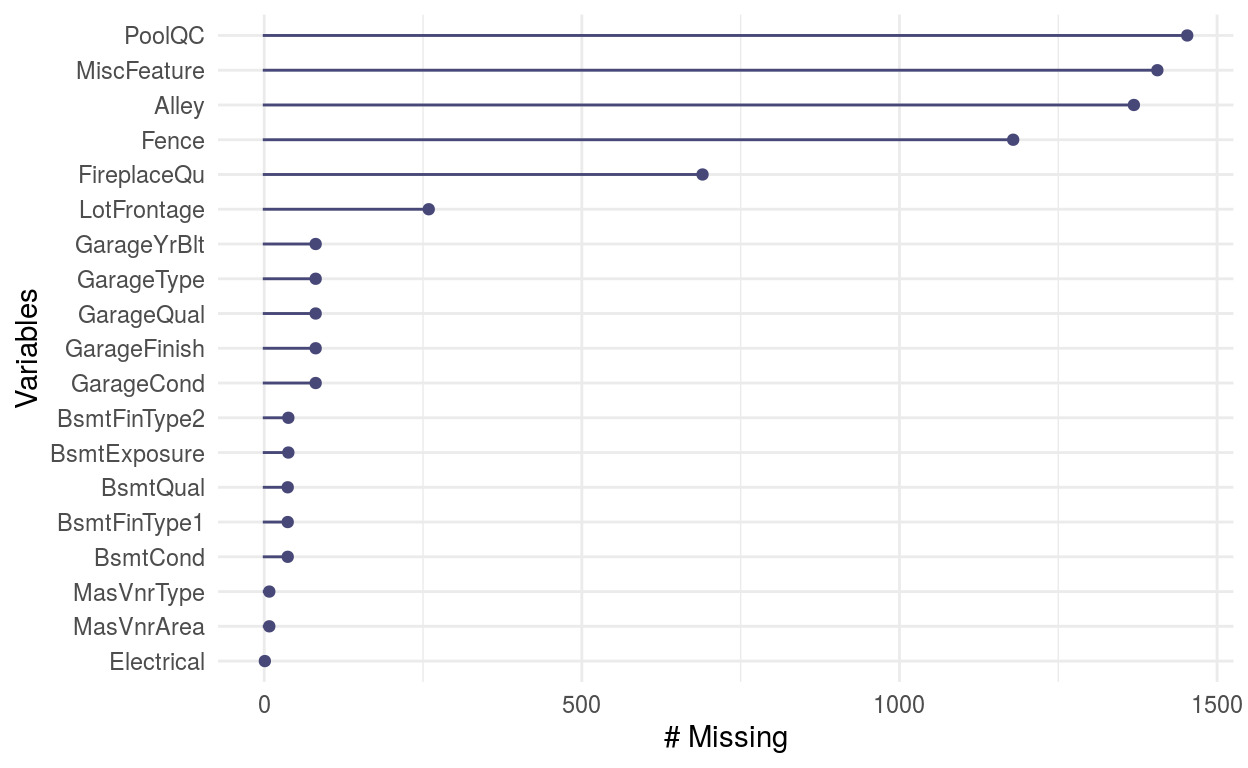
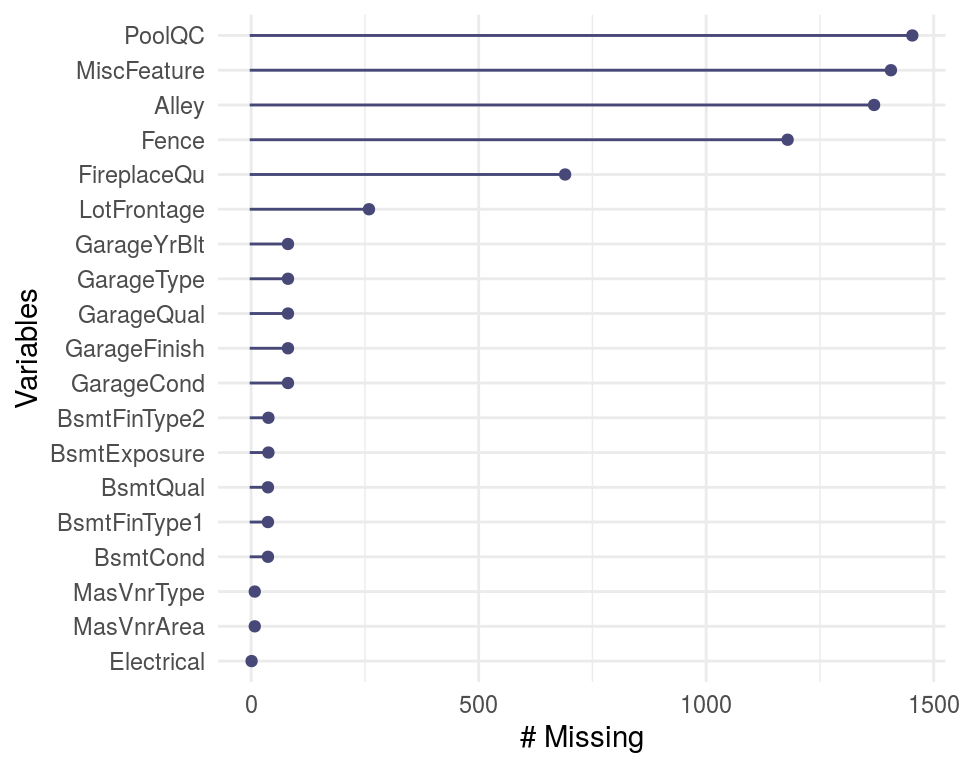
목차 만들기

diff --git a/docs/posts/2021-03-25-hw4/index.html b/docs/posts/2021-03-25-hw4/index.html
@@ -50,39 +50,38 @@ pre.numberSource code > span > a:first-child::before
   }
 pre.numberSource { margin-left: 3em; border-left: 1px solid #aaaaaa;  padding-left: 4px; }
 div.sourceCode
-  {   }
+  {  background-color: #f8f8f8; }
 @media screen {
 pre > code.sourceCode > span > a:first-child::before { text-decoration: underline; }
 }
-code span.al { color: #ad0000; } /* Alert */
-code span.an { color: #5e5e5e; } /* Annotation */
-code span.at { color: #20794d; } /* Attribute */
-code span.bn { color: #ad0000; } /* BaseN */
-code span.bu { } /* BuiltIn */
-code span.cf { color: #007ba5; } /* ControlFlow */
-code span.ch { color: #20794d; } /* Char */
-code span.cn { color: #8f5902; } /* Constant */
-code span.co { color: #5e5e5e; } /* Comment */
-code span.cv { color: #5e5e5e; font-style: italic; } /* CommentVar */
-code span.do { color: #5e5e5e; font-style: italic; } /* Documentation */
-code span.dt { color: #ad0000; } /* DataType */
-code span.dv { color: #ad0000; } /* DecVal */
-code span.er { color: #ad0000; } /* Error */
+code span.al { color: #ef2929; } /* Alert */
+code span.an { color: #8f5902; font-weight: bold; font-style: italic; } /* Annotation */
+code span.at { color: #c4a000; } /* Attribute */
+code span.bn { color: #0000cf; } /* BaseN */
+code span.cf { color: #204a87; font-weight: bold; } /* ControlFlow */
+code span.ch { color: #4e9a06; } /* Char */
+code span.cn { color: #000000; } /* Constant */
+code span.co { color: #8f5902; font-style: italic; } /* Comment */
+code span.cv { color: #8f5902; font-weight: bold; font-style: italic; } /* CommentVar */
+code span.do { color: #8f5902; font-weight: bold; font-style: italic; } /* Documentation */
+code span.dt { color: #204a87; } /* DataType */
+code span.dv { color: #0000cf; } /* DecVal */
+code span.er { color: #a40000; font-weight: bold; } /* Error */
 code span.ex { } /* Extension */
-code span.fl { color: #ad0000; } /* Float */
-code span.fu { color: #4758ab; } /* Function */
+code span.fl { color: #0000cf; } /* Float */
+code span.fu { color: #000000; } /* Function */
 code span.im { } /* Import */
-code span.in { color: #5e5e5e; } /* Information */
-code span.kw { color: #007ba5; } /* Keyword */
-code span.op { color: #5e5e5e; } /* Operator */
-code span.ot { color: #007ba5; } /* Other */
-code span.pp { color: #ad0000; } /* Preprocessor */
-code span.sc { color: #20794d; } /* SpecialChar */
-code span.ss { color: #20794d; } /* SpecialString */
-code span.st { color: #20794d; } /* String */
-code span.va { color: #111111; } /* Variable */
-code span.vs { color: #20794d; } /* VerbatimString */
-code span.wa { color: #5e5e5e; font-style: italic; } /* Warning */
+code span.in { color: #8f5902; font-weight: bold; font-style: italic; } /* Information */
+code span.kw { color: #204a87; font-weight: bold; } /* Keyword */
+code span.op { color: #ce5c00; font-weight: bold; } /* Operator */
+code span.ot { color: #8f5902; } /* Other */
+code span.pp { color: #8f5902; font-style: italic; } /* Preprocessor */
+code span.sc { color: #000000; } /* SpecialChar */
+code span.ss { color: #4e9a06; } /* SpecialString */
+code span.st { color: #4e9a06; } /* String */
+code span.va { color: #000000; } /* Variable */
+code span.vs { color: #4e9a06; } /* VerbatimString */
+code span.wa { color: #8f5902; font-weight: bold; font-style: italic; } /* Warning */
 </style>
 
   <!--radix_placeholder_meta_tags-->
@@ -103,7 +102,7 @@ code span.wa { color: #5e5e5e; font-style: italic; } /* Warning */
 <meta property="og:description" content="응용통계학 hw4"/>
 <meta property="og:url" content="https://hanbyeol1322.github.io/skkustar/posts/2021-03-25-hw4/"/>
 <meta property="og:image" content="https://hanbyeol1322.github.io/skkustar/posts/2021-03-25-hw4/hw4_files/figure-html5/unnamed-chunk-7-1.png"/>
-<meta property="og:image:width" content="1248"/>
+<meta property="og:image:width" content="960"/>
 <meta property="og:image:height" content="768"/>
 <meta property="og:locale" content="en_US"/>
 <meta property="og:site_name" content="★"/>
@@ -114,7 +113,7 @@ code span.wa { color: #5e5e5e; font-style: italic; } /* Warning */
 <meta property="twitter:description" content="응용통계학 hw4"/>
 <meta property="twitter:url" content="https://hanbyeol1322.github.io/skkustar/posts/2021-03-25-hw4/"/>
 <meta property="twitter:image" content="https://hanbyeol1322.github.io/skkustar/posts/2021-03-25-hw4/hw4_files/figure-html5/unnamed-chunk-7-1.png"/>
-<meta property="twitter:image:width" content="1248"/>
+<meta property="twitter:image:width" content="960"/>
 <meta property="twitter:image:height" content="768"/>
 
 <!--  https://scholar.google.com/intl/en/scholar/inclusion.html#indexing -->
@@ -127,7 +126,7 @@ code span.wa { color: #5e5e5e; font-style: italic; } /* Warning */
   <!--radix_placeholder_rmarkdown_metadata-->
 
 <script type="text/json" id="radix-rmarkdown-metadata">
-{"type":"list","attributes":{"names":{"type":"character","attributes":{},"value":["title","description","author","date","output","editor_options","citation_url","canonical_url"]}},"value":[{"type":"character","attributes":{},"value":["saleprice prediction 수정(tidymodels)"]},{"type":"character","attributes":{},"value":["응용통계학 hw4"]},{"type":"list","attributes":{},"value":[{"type":"list","attributes":{"names":{"type":"character","attributes":{},"value":["name","url"]}},"value":[{"type":"character","attributes":{},"value":["hanbyeol"]},{"type":"list","attributes":{"names":{"type":"character","attributes":{},"value":[]}},"value":[]}]}]},{"type":"character","attributes":{},"value":["03-25-2021"]},{"type":"list","attributes":{"names":{"type":"character","attributes":{},"value":["distill::distill_article"]}},"value":[{"type":"list","attributes":{"names":{"type":"character","attributes":{},"value":["self_contained","code_folding"]}},"value":[{"type":"logical","attributes":{},"value":[false]},{"type":"character","attributes":{},"value":["code"]}]}]},{"type":"list","attributes":{"names":{"type":"character","attributes":{},"value":["markdown"]}},"value":[{"type":"list","attributes":{"names":{"type":"character","attributes":{},"value":["wrap"]}},"value":[{"type":"integer","attributes":{},"value":[72]}]}]},{"type":"character","attributes":{},"value":["https://hanbyeol1322.github.io/skkustar/posts/2021-03-25-hw4/"]},{"type":"character","attributes":{},"value":["https://hanbyeol1322.github.io/skkustar/posts/2021-03-25-hw4/"]}]}
+{"type":"list","attributes":{"names":{"type":"character","attributes":{},"value":["title","description","author","date","output","editor_options","citation_url","canonical_url"]}},"value":[{"type":"character","attributes":{},"value":["saleprice prediction 수정(tidymodels)"]},{"type":"character","attributes":{},"value":["응용통계학 hw4"]},{"type":"list","attributes":{},"value":[{"type":"list","attributes":{"names":{"type":"character","attributes":{},"value":["name","url"]}},"value":[{"type":"character","attributes":{},"value":["hanbyeol"]},{"type":"list","attributes":{"names":{"type":"character","attributes":{},"value":[]}},"value":[]}]}]},{"type":"character","attributes":{},"value":["03-25-2021"]},{"type":"list","attributes":{"names":{"type":"character","attributes":{},"value":["distill::distill_article"]}},"value":[{"type":"list","attributes":{"names":{"type":"character","attributes":{},"value":["self_contained","html_document","number_sections","fig_caption","toc","fig_width","fig_height","theme","highlight","code_folding"]}},"value":[{"type":"logical","attributes":{},"value":[false]},{"type":"NULL"},{"type":"logical","attributes":{},"value":[true]},{"type":"logical","attributes":{},"value":[true]},{"type":"logical","attributes":{},"value":[true]},{"type":"integer","attributes":{},"value":[5]},{"type":"integer","attributes":{},"value":[4]},{"type":"character","attributes":{},"value":["cosmo"]},{"type":"character","attributes":{},"value":["tango"]},{"type":"character","attributes":{},"value":["code"]}]}]},{"type":"list","attributes":{"names":{"type":"character","attributes":{},"value":["markdown"]}},"value":[{"type":"list","attributes":{"names":{"type":"character","attributes":{},"value":["wrap"]}},"value":[{"type":"integer","attributes":{},"value":[72]}]}]},{"type":"character","attributes":{},"value":["https://hanbyeol1322.github.io/skkustar/posts/2021-03-25-hw4/"]},{"type":"character","attributes":{},"value":["https://hanbyeol1322.github.io/skkustar/posts/2021-03-25-hw4/"]}]}
 </script>
 <!--/radix_placeholder_rmarkdown_metadata-->
   
@@ -2114,6 +2113,37 @@ document.addEventListener('DOMContentLoaded', function() {
 </div>
 
 <div class="d-article">
+<div class="d-contents d-contents-float">
+<nav class="l-text toc figcaption" id="TOC">
+<h3>Contents</h3>
+<ul>
+<li><a href="#preparations-준비작업">1. Preparations (준비작업)</a>
+<ul>
+<li><a href="#libraries">1.1 Libraries</a></li>
+<li><a href="#data-load">1.2 Data load</a></li>
+</ul></li>
+<li><a href="#data-overview-데이터-기본정보">2. Data overview (데이터 기본정보)</a>
+<ul>
+<li><a href="#basic-info.">2.1 Basic info.</a></li>
+<li><a href="#detailed-info.-train">2.2 Detailed info. <code>train</code></a></li>
+<li><a href="#detailed-info.-test">2.3 Detailed info. <code>test</code></a></li>
+</ul></li>
+<li><a href="#eda-with-visualization-탐색적-데이터-분석">3. EDA with visualization (탐색적 데이터 분석)</a>
+<ul>
+<li><a href="#distribution-of-sale_price">3.1 Distribution of <code>sale_price</code></a></li>
+<li><a href="#nas">3.2 <code>NA</code>s</a></li>
+</ul></li>
+<li><a href="#preprecessing-with-recipe-전처리-레시피-만들기">4. Preprecessing with <code>recipe</code> (전처리 레시피 만들기)</a>
+<ul>
+<li><a href="#all_data-combine-and-name-cleaning-with-janitor">4.1 <code>all_data</code> combine and name cleaning with <code>janitor</code></a></li>
+<li><a href="#make-recipe">4.2 Make recipe</a></li>
+<li><a href="#juice-the-all_data2-and-split">4.3 <code>juice</code> the all_data2 and split</a></li>
+</ul></li>
+<li><a href="#set-linear-regression-model-and-fitting-모델-설정-및-학습">5. Set linear regression model and fitting (모델 설정 및 학습)</a></li>
+<li><a href="#prediction-and-submit-예측-및-평가">6. Prediction and submit (예측 및 평가)</a></li>
+</ul>
+</nav>
+</div>
 <h1 id="preparations-준비작업">1. Preparations (준비작업)</h1>
 <h2 id="libraries">1.1 Libraries</h2>
 <p>We mainly exploits the functions from the tidyvers and tidymodels packages. <code>magrittr</code> has my favorite operators!</p>
@@ -4250,7 +4280,7 @@ code
 </code></pre>
 </div>
 </details>
-<p><img src="hw4_files/figure-html5/unnamed-chunk-7-1.png" width="624" style="display: block; margin: auto;" /></p>
+<p><img src="hw4_files/figure-html5/unnamed-chunk-7-1.png" width="480" style="display: block; margin: auto;" /></p>
 </div>
 <p>Since we want to build a linear regression assume that the noise follows the normal distribution, let us take a log to <code>SalePrice</code> variable.</p>
 <p>한쪽으로 치우쳐져 있는 값에 log를 취한다.(y가 정규분포를 따른다는 가정하에서 회귀분석이 잘 된ㄷㅣ.)</p>
@@ -4266,7 +4296,7 @@ code
 </code></pre>
 </div>
 </details>
-<p><img src="hw4_files/figure-html5/unnamed-chunk-8-1.png" width="624" style="display: block; margin: auto;" /></p>
+<p><img src="hw4_files/figure-html5/unnamed-chunk-8-1.png" width="480" style="display: block; margin: auto;" /></p>
 </div>
 <h2 id="nas">3.2 <code>NA</code>s</h2>
 <p>There is a nice package for checking out <code>NA</code>s. Let’s see how many variables we have which contains <code>NA</code>s. <em>in.na</em>인 값들을 다 더하면-&gt; 그 col안에 missing observation이 있는 값들을 선택해서 <em>gg_miss_var</em> 함수로표현</p>
@@ -4284,7 +4314,7 @@ code
 </code></pre>
 </div>
 </details>
-<p><img src="hw4_files/figure-html5/unnamed-chunk-9-1.png" width="624" style="display: block; margin: auto;" /></p>
+<p><img src="hw4_files/figure-html5/unnamed-chunk-9-1.png" width="480" style="display: block; margin: auto;" /></p>
 </div>
 <p>We can do more analysis about <code>NA</code>s with <code>upset()</code> function, which shows that most of the observations with <code>NA</code>s in the data set have <code>NA</code>s at the <code>PoolQC</code>, <code>MiscFeature</code>, <code>Alley</code>, <code>Fence</code> at the same time. 동시에없는 정보들을 볼 수 있다. (NA의 연관성으로 전처리를 할 때 고려할 수있다.)</p>
 <div class="layout-chunk" data-layout="l-body">
@@ -4299,7 +4329,7 @@ code
 </code></pre>
 </div>
 </details>
-<p><img src="hw4_files/figure-html5/unnamed-chunk-10-1.png" width="624" style="display: block; margin: auto;" /></p>
+<p><img src="hw4_files/figure-html5/unnamed-chunk-10-1.png" width="480" style="display: block; margin: auto;" /></p>
 </div>
 <p>From the above, we can have some insights that if a house doesn’t have Pool, it is likely that it doesn’t have Alley, Fence, and Fireplace too.</p>
 <h1 id="preprecessing-with-recipe-전처리-레시피-만들기">4. Preprecessing with <code>recipe</code> (전처리 레시피 만들기)</h1>

diff --git a/_posts/2021-03-25-hw4/hw4.html b/_posts/2021-03-25-hw4/hw4.html
@@ -50,39 +50,38 @@ pre.numberSource code > span > a:first-child::before
   }
 pre.numberSource { margin-left: 3em; border-left: 1px solid #aaaaaa;  padding-left: 4px; }
 div.sourceCode
-  {   }
+  {  background-color: #f8f8f8; }
 @media screen {
 pre > code.sourceCode > span > a:first-child::before { text-decoration: underline; }
 }
-code span.al { color: #ad0000; } /* Alert */
-code span.an { color: #5e5e5e; } /* Annotation */
-code span.at { color: #20794d; } /* Attribute */
-code span.bn { color: #ad0000; } /* BaseN */
-code span.bu { } /* BuiltIn */
-code span.cf { color: #007ba5; } /* ControlFlow */
-code span.ch { color: #20794d; } /* Char */
-code span.cn { color: #8f5902; } /* Constant */
-code span.co { color: #5e5e5e; } /* Comment */
-code span.cv { color: #5e5e5e; font-style: italic; } /* CommentVar */
-code span.do { color: #5e5e5e; font-style: italic; } /* Documentation */
-code span.dt { color: #ad0000; } /* DataType */
-code span.dv { color: #ad0000; } /* DecVal */
-code span.er { color: #ad0000; } /* Error */
+code span.al { color: #ef2929; } /* Alert */
+code span.an { color: #8f5902; font-weight: bold; font-style: italic; } /* Annotation */
+code span.at { color: #c4a000; } /* Attribute */
+code span.bn { color: #0000cf; } /* BaseN */
+code span.cf { color: #204a87; font-weight: bold; } /* ControlFlow */
+code span.ch { color: #4e9a06; } /* Char */
+code span.cn { color: #000000; } /* Constant */
+code span.co { color: #8f5902; font-style: italic; } /* Comment */
+code span.cv { color: #8f5902; font-weight: bold; font-style: italic; } /* CommentVar */
+code span.do { color: #8f5902; font-weight: bold; font-style: italic; } /* Documentation */
+code span.dt { color: #204a87; } /* DataType */
+code span.dv { color: #0000cf; } /* DecVal */
+code span.er { color: #a40000; font-weight: bold; } /* Error */
 code span.ex { } /* Extension */
-code span.fl { color: #ad0000; } /* Float */
-code span.fu { color: #4758ab; } /* Function */
+code span.fl { color: #0000cf; } /* Float */
+code span.fu { color: #000000; } /* Function */
 code span.im { } /* Import */
-code span.in { color: #5e5e5e; } /* Information */
-code span.kw { color: #007ba5; } /* Keyword */
-code span.op { color: #5e5e5e; } /* Operator */
-code span.ot { color: #007ba5; } /* Other */
-code span.pp { color: #ad0000; } /* Preprocessor */
-code span.sc { color: #20794d; } /* SpecialChar */
-code span.ss { color: #20794d; } /* SpecialString */
-code span.st { color: #20794d; } /* String */
-code span.va { color: #111111; } /* Variable */
-code span.vs { color: #20794d; } /* VerbatimString */
-code span.wa { color: #5e5e5e; font-style: italic; } /* Warning */
+code span.in { color: #8f5902; font-weight: bold; font-style: italic; } /* Information */
+code span.kw { color: #204a87; font-weight: bold; } /* Keyword */
+code span.op { color: #ce5c00; font-weight: bold; } /* Operator */
+code span.ot { color: #8f5902; } /* Other */
+code span.pp { color: #8f5902; font-style: italic; } /* Preprocessor */
+code span.sc { color: #000000; } /* SpecialChar */
+code span.ss { color: #4e9a06; } /* SpecialString */
+code span.st { color: #4e9a06; } /* String */
+code span.va { color: #000000; } /* Variable */
+code span.vs { color: #4e9a06; } /* VerbatimString */
+code span.wa { color: #8f5902; font-weight: bold; font-style: italic; } /* Warning */
 </style>
 
   <!--radix_placeholder_meta_tags-->
@@ -111,7 +110,7 @@ code span.wa { color: #5e5e5e; font-style: italic; } /* Warning */
   <!--radix_placeholder_rmarkdown_metadata-->
 
   <script type="text/json" id="radix-rmarkdown-metadata">
-  {"type":"list","attributes":{"names":{"type":"character","attributes":{},"value":["title","description","author","date","output","editor_options"]}},"value":[{"type":"character","attributes":{},"value":["saleprice prediction 수정(tidymodels)"]},{"type":"character","attributes":{},"value":["응용통계학 hw4"]},{"type":"list","attributes":{},"value":[{"type":"list","attributes":{"names":{"type":"character","attributes":{},"value":["name","url"]}},"value":[{"type":"character","attributes":{},"value":["hanbyeol"]},{"type":"list","attributes":{"names":{"type":"character","attributes":{},"value":[]}},"value":[]}]}]},{"type":"character","attributes":{},"value":["03-25-2021"]},{"type":"list","attributes":{"names":{"type":"character","attributes":{},"value":["distill::distill_article"]}},"value":[{"type":"list","attributes":{"names":{"type":"character","attributes":{},"value":["self_contained","code_folding"]}},"value":[{"type":"logical","attributes":{},"value":[false]},{"type":"character","attributes":{},"value":["code"]}]}]},{"type":"list","attributes":{"names":{"type":"character","attributes":{},"value":["markdown"]}},"value":[{"type":"list","attributes":{"names":{"type":"character","attributes":{},"value":["wrap"]}},"value":[{"type":"integer","attributes":{},"value":[72]}]}]}]}
+  {"type":"list","attributes":{"names":{"type":"character","attributes":{},"value":["title","description","author","date","output","editor_options"]}},"value":[{"type":"character","attributes":{},"value":["saleprice prediction 수정(tidymodels)"]},{"type":"character","attributes":{},"value":["응용통계학 hw4"]},{"type":"list","attributes":{},"value":[{"type":"list","attributes":{"names":{"type":"character","attributes":{},"value":["name","url"]}},"value":[{"type":"character","attributes":{},"value":["hanbyeol"]},{"type":"list","attributes":{"names":{"type":"character","attributes":{},"value":[]}},"value":[]}]}]},{"type":"character","attributes":{},"value":["03-25-2021"]},{"type":"list","attributes":{"names":{"type":"character","attributes":{},"value":["distill::distill_article"]}},"value":[{"type":"list","attributes":{"names":{"type":"character","attributes":{},"value":["self_contained","html_document","number_sections","fig_caption","toc","fig_width","fig_height","theme","highlight","code_folding"]}},"value":[{"type":"logical","attributes":{},"value":[false]},{"type":"NULL"},{"type":"logical","attributes":{},"value":[true]},{"type":"logical","attributes":{},"value":[true]},{"type":"logical","attributes":{},"value":[true]},{"type":"integer","attributes":{},"value":[5]},{"type":"integer","attributes":{},"value":[4]},{"type":"character","attributes":{},"value":["cosmo"]},{"type":"character","attributes":{},"value":["tango"]},{"type":"character","attributes":{},"value":["code"]}]}]},{"type":"list","attributes":{"names":{"type":"character","attributes":{},"value":["markdown"]}},"value":[{"type":"list","attributes":{"names":{"type":"character","attributes":{},"value":["wrap"]}},"value":[{"type":"integer","attributes":{},"value":[72]}]}]}]}
   </script>
   <!--/radix_placeholder_rmarkdown_metadata-->
   
@@ -1478,6 +1477,37 @@ code span.wa { color: #5e5e5e; font-style: italic; } /* Warning */
 </div>
 
 <div class="d-article">
+<div class="d-contents d-contents-float">
+<nav class="l-text toc figcaption" id="TOC">
+<h3>Contents</h3>
+<ul>
+<li><a href="#preparations-준비작업">1. Preparations (준비작업)</a>
+<ul>
+<li><a href="#libraries">1.1 Libraries</a></li>
+<li><a href="#data-load">1.2 Data load</a></li>
+</ul></li>
+<li><a href="#data-overview-데이터-기본정보">2. Data overview (데이터 기본정보)</a>
+<ul>
+<li><a href="#basic-info.">2.1 Basic info.</a></li>
+<li><a href="#detailed-info.-train">2.2 Detailed info. <code>train</code></a></li>
+<li><a href="#detailed-info.-test">2.3 Detailed info. <code>test</code></a></li>
+</ul></li>
+<li><a href="#eda-with-visualization-탐색적-데이터-분석">3. EDA with visualization (탐색적 데이터 분석)</a>
+<ul>
+<li><a href="#distribution-of-sale_price">3.1 Distribution of <code>sale_price</code></a></li>
+<li><a href="#nas">3.2 <code>NA</code>s</a></li>
+</ul></li>
+<li><a href="#preprecessing-with-recipe-전처리-레시피-만들기">4. Preprecessing with <code>recipe</code> (전처리 레시피 만들기)</a>
+<ul>
+<li><a href="#all_data-combine-and-name-cleaning-with-janitor">4.1 <code>all_data</code> combine and name cleaning with <code>janitor</code></a></li>
+<li><a href="#make-recipe">4.2 Make recipe</a></li>
+<li><a href="#juice-the-all_data2-and-split">4.3 <code>juice</code> the all_data2 and split</a></li>
+</ul></li>
+<li><a href="#set-linear-regression-model-and-fitting-모델-설정-및-학습">5. Set linear regression model and fitting (모델 설정 및 학습)</a></li>
+<li><a href="#prediction-and-submit-예측-및-평가">6. Prediction and submit (예측 및 평가)</a></li>
+</ul>
+</nav>
+</div>
 <h1 id="preparations-준비작업">1. Preparations (준비작업)</h1>
 <h2 id="libraries">1.1 Libraries</h2>
 <p>We mainly exploits the functions from the tidyvers and tidymodels packages. <code>magrittr</code> has my favorite operators!</p>
@@ -3614,7 +3644,7 @@ code
 </code></pre>
 </div>
 </details>
-<p><img src="hw4_files/figure-html5/unnamed-chunk-7-1.png" width="624" style="display: block; margin: auto;" /></p>
+<p><img src="hw4_files/figure-html5/unnamed-chunk-7-1.png" width="480" style="display: block; margin: auto;" /></p>
 </div>
 <p>Since we want to build a linear regression assume that the noise follows the normal distribution, let us take a log to <code>SalePrice</code> variable.</p>
 <p>한쪽으로 치우쳐져 있는 값에 log를 취한다.(y가 정규분포를 따른다는 가정하에서 회귀분석이 잘 된ㄷㅣ.)</p>
@@ -3630,7 +3660,7 @@ code
 </code></pre>
 </div>
 </details>
-<p><img src="hw4_files/figure-html5/unnamed-chunk-8-1.png" width="624" style="display: block; margin: auto;" /></p>
+<p><img src="hw4_files/figure-html5/unnamed-chunk-8-1.png" width="480" style="display: block; margin: auto;" /></p>
 </div>
 <h2 id="nas">3.2 <code>NA</code>s</h2>
 <p>There is a nice package for checking out <code>NA</code>s. Let’s see how many variables we have which contains <code>NA</code>s. <em>in.na</em>인 값들을 다 더하면-&gt; 그 col안에 missing observation이 있는 값들을 선택해서 <em>gg_miss_var</em> 함수로표현</p>
@@ -3648,7 +3678,7 @@ code
 </code></pre>
 </div>
 </details>
-<p><img src="hw4_files/figure-html5/unnamed-chunk-9-1.png" width="624" style="display: block; margin: auto;" /></p>
+<p><img src="hw4_files/figure-html5/unnamed-chunk-9-1.png" width="480" style="display: block; margin: auto;" /></p>
 </div>
 <p>We can do more analysis about <code>NA</code>s with <code>upset()</code> function, which shows that most of the observations with <code>NA</code>s in the data set have <code>NA</code>s at the <code>PoolQC</code>, <code>MiscFeature</code>, <code>Alley</code>, <code>Fence</code> at the same time. 동시에없는 정보들을 볼 수 있다. (NA의 연관성으로 전처리를 할 때 고려할 수있다.)</p>
 <div class="layout-chunk" data-layout="l-body">
@@ -3663,7 +3693,7 @@ code
 </code></pre>
 </div>
 </details>
-<p><img src="hw4_files/figure-html5/unnamed-chunk-10-1.png" width="624" style="display: block; margin: auto;" /></p>
+<p><img src="hw4_files/figure-html5/unnamed-chunk-10-1.png" width="480" style="display: block; margin: auto;" /></p>
 </div>
 <p>From the above, we can have some insights that if a house doesn’t have Pool, it is likely that it doesn’t have Alley, Fence, and Fireplace too.</p>
 <h1 id="preprecessing-with-recipe-전처리-레시피-만들기">4. Preprecessing with <code>recipe</code> (전처리 레시피 만들기)</h1>
